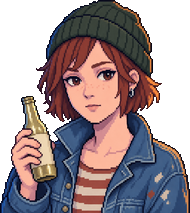
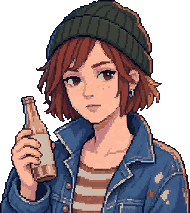
Integration (resumed): Jersey font ladder measured with FontProbe, playthrough tool (PLAY ok 15 steps), shelf as auto-scrolling list, manage rows fitted, verify leftovers; 66 tests green

diff --git a/docs/04-component-catalog.md b/docs/04-component-catalog.md
@@ -10,7 +10,9 @@ inside a scene, stop: use a component, or add one here first.
    and `components/Theme.tres`. A component may not write a raw hex; a scene may not write a stylebox — nor a
    `Color(...)` on a `ColorRect`. A screen that needs a veil or a hairline assigns the token in `_ready()`
    (`($Dim as ColorRect).color = Palette.DIM`); `test_scenes.gd::test_scenes_write_no_colours` greps every
-   screen `.tscn` and fails if the word `Color(` reappears.
+   screen `.tscn` and fails if the word `Color(` reappears. The pool obeys it too: no `.tscn` in
+   `components/` writes a colour either, and the tints, the rain, the modal dimmer and the meter's empty
+   cell are `Palette` tokens the script assigns in `_ready()`.
 2. **Tree-optional.** Components find their own nodes with `get_node_or_null("%Name")` (never `@onready`) and guard
    every tween with `is_inside_tree()`, so `render()` works on an instance that was never added to a tree — which is
    how `tests/unit/test_scenes.gd` exercises them headless.
@@ -21,19 +23,21 @@ inside a scene, stop: use a component, or add one here first.
 
 | Component | Scene / script (`class_name`) | Contract | Used by |
 |---|---|---|---|
-| **Palette** | `theme.gd` (`Palette`) | Tokens only, no nodes. Colours (`WOOD_DEEP…NEON_CYAN`, `INK`, `EDGE`, `SCRIM` (title veil) / `DIM` (behind a card) / `RULE` (1-px separator), `TEXT`, `GOOD/WARN/BAD`, `SPEAKER`, `TIER`), sizes (`FONT_SMALL 12 / FONT_BODY 16 / FONT_LEAD 24 / FONT_TITLE 48`), layout (`BASE 480×270`, `COUNTER_H/COUNTER_TOP`, `DIALOGUE_RECT`, `SERVE_RECT`), `static var reduce_motion`. Methods: `theme()` (loads Theme.tres and forces the pixel font to antialias-off / hinting-none / subpixel-off), `prepare()`, `speaker_colour(id)`, `tier_colour(tier)`, `box(...)->StyleBoxFlat`, `money(float)->"1,80 €"`, `snap(Vector2)`. | everything |
-| **Theme** | `Theme.tres` | The one Theme: VT323 at 16 + styleboxes for `Button` (normal/hover/pressed/disabled/focus) and `PanelContainer`, plus type variations `DialoguePanel`, `BubblePanel`, `SlotPanel`, `SlotPanelPicked`, `ChoiceButton`, `TitleButton`, `HudPlate`, `FlatPanel`, `SpeakerLabel`, `SmallLabel`, `LeadLabel`, `TitleLabel`. Every box has `anti_aliasing = false`. | every scene root sets `theme` |
+| **Palette** | `theme.gd` (`Palette`) | Tokens only, no nodes. Colours (`WOOD_DEEP…NEON_CYAN`, `INK`, `EDGE`, `SCRIM` (title veil) / `DIM` (behind a card) / `RULE` (1-px separator) / `MODAL_DIM` / `METER_EMPTY`, the set’s `TINT_DUSK/DEEP/DAWN` + `NEON_GLOW` + `RAIN` + `RAIN_RECT`, `TEXT`, `GOOD/WARN/BAD`, `SPEAKER`, `TIER`), sizes (`FONT_TINY/SMALL/BODY 16 · FONT_LEAD 20 · FONT_TITLE 50` — Jersey’s measured-clean sizes, docs/01 "Pixel discipline"), layout (`BASE 480×270`, `COUNTER_H/COUNTER_TOP`, `DIALOGUE_RECT` + `DIALOGUE_W_SERVING`, `SERVE_RECT`, `PORTRAIT_CENTRE_X` / `PORTRAIT_CENTRE_X_SERVING` / `PORTRAIT_OVERLAP` / `PORTRAIT_TOP_MIN`), `static var reduce_motion`. Methods: `theme()` (loads Theme.tres and forces EVERY face in it to antialias-off / hinting-none / subpixel-off), `prepare()`, `speaker_colour(id)`, `tier_colour(tier)`, `box(...)->StyleBoxFlat`, `money(float)->"1,80 €"`, `snap(Vector2)`. | everything |
+| **Strings** | `strings.gd` (`Strings`) | THE string table — every user-facing word, plus `hud_line(day, queue)` and `summary_sub(...)` so the separators cannot drift between screens. English base, German for the Kiez’s own nouns (Späti · Pfand · Kiez-Trust) and the engine’s weekdays. `tests/unit/test_strings.gd` fails any `.gd` in `scenes/` or `components/` that sets a label to a literal (`.tscn` placeholders are exempt — they are what the editor shows, and `render()` overwrites them). | every screen + component |
+| **Theme** | `Theme.tres` | The one Theme: **Jersey 10 at 16** as the default font (Jersey 25 at 50 for `TitleLabel`), plus styleboxes for `Button` (normal/hover/pressed/disabled/focus), `PanelContainer` and `VScrollBar`, and the type variations `DialoguePanel`, `BubblePanel`, `SlotPanel`, `SlotPanelPicked`, `ChoiceButton`, `StepButton` (a zero-padding −/+ so a table row stays exactly one row tall), `TitleButton`, `HudPlate`, `FlatPanel`, `SpeakerLabel`, `SmallLabel`, `TinyLabel`, `LeadLabel`, `TitleLabel`, `TitleSubLabel`. Every box has `anti_aliasing = false`. | every scene root sets `theme` |
+| **Fx** | `Fx.tscn` / `fx.gd` (`Fx`) | The feedback layer: `Session.event` (every new log entry, docs/05 §7) → a code-drawn pop on the pixel grid — a coin for `serve`/`tip`, a clink for `pfand`, motes for `arrive`/`upgrade`, a grey puff for `balk`/`ethics`/`raid`. `on_event(entry)`, `play(kind, at)`. No texture, no state: an FX that fails to play may never change a night. Silent under `reduce_motion`. | Night |
 | **Assets** | `assets.gd` (`Assets`) | `texture(id)->Texture2D` (real PNG or generated placeholder), `portrait(portrait_id, expression)` — it resolves the EXPRESSION first (an id with neither a PNG nor a `SIZES` entry falls back to `_neutral`, docs/05 §6) so a missing expression keeps the bust's 190×230 footprint instead of collapsing to `FALLBACK_SIZE` —, `is_real(id)`, `size_of(id)` (mirrors `docs/asset-spec.json`; `test_scenes.gd::test_asset_sizes_match_the_spec` reads the spec and fails on any drift), `clear_cache()`. Placeholders: bust silhouette for `char/*`, room for `scene/*`, bottle/box for props, disc for `ui/*` — each in a hashed colour with the id stamped in a built-in 3×5 font. | every component that shows art |
 | **MockView** | `mock_view.gd` (`MockView`) | `PRESETS`, `presets()`, `view(preset) -> Dictionary` shaped **exactly** like `Rules.view(state)` (docs/05 §5) for all nine capture presets, with the **same strings** the engine formats (`"Kiez-Trust 62"`, a German weekday from `Rules.WEEKDAY_NAMES`) — `test_scenes.gd::test_mock_view_speaks_the_engines_language` compares the values against `Rules.view()`, so a capture can never show text the engine cannot produce. Mock data only — no rules. | `Screen.apply_capture_preset`, tests |
 | **Screen** | `screen.gd` (`Screen`, extends Control) | Base for composed screens. `@export default_preset`, `view()` (Session's when `/root/Session` exists, else the mock — a capture preset always wins), `render(v)` (override), `refresh()`, `dispatch(action)` (Session, else prints), `apply_capture_preset(name)`, signal `request_screen(name)`. | Title, Night, Manage, Summary |
 | **PixelPanel** | `PixelPanel.tscn` / `pixel_panel.gd` (`PixelPanel`) | The generic dark translucent box. `@export title`, `@export variation` (`&"DialoguePanel"`, `&"SlotPanel"`, …), `content()`, `add_content(n)`, `clear_content()`. | ad-hoc panels |
 | **PixelButton** | `PixelButton.tscn` / `pixel_button.gd` (`PixelButton`) | `extends Button`. `@export icon_id` (through Assets), `@export action: Dictionary` (an engine action), signal `activated(action)` on top of `pressed`. Focus ring from the Theme, so the keyboard works. | every clickable |
 | **Meter** | `Meter.tscn` / `meter.gd` (`Meter`) | Icon + label + segmented bar; colourblind-safe (icon + number carry the meaning). `@export icon_id/label_text/value 0..1/fill/segments`, `set_reading(value, text)`. | Hud |
-| **ItemSlot** | `ItemSlot.tscn` / `item_slot.gd` (`ItemSlot`) | One SKU: icon, name, price (coloured by `tier`), stock, corner badge (till count, or `18` when restricted). `@export sku: Dictionary` (a `view.shelf` entry), `@export count`, signal `picked(sku_id)`; click or `ui_accept`, out-of-stock slots dim and do not emit. 44×44. | Shelf |
-| **Shelf** | `Shelf.tscn` / `shelf.gd` (`Shelf`) | 5-column grid of ItemSlots. `set_items(items, counts := {})`, `set_counts(counts)`, `slot_for(sku_id)`, signal `picked(sku_id)`. Re-uses slots between renders. | ServePanel |
-| **Till** | `Till.tscn` / `till.gd` (`Till`) | The ring-up tray. `set_lines/add_sku/set_pfand/set_pfand_rate/clear/counts/total/give_list`; signals `ring_up(give, pfand_bottles)`, `pfand_toggled`, `waved_off`, `line_removed`. Shows at most `MAX_ROWS` lines + a "+N more" row + the Pfand line, which prices the deposit from `pfand_rate` (fed from `view.pfand_rate`, never a literal — the tray must quote what the reducer pays); "Ring up" disables when the tray is empty. | ServePanel |
+| **ItemSlot** | `ItemSlot.tscn` / `item_slot.gd` (`ItemSlot`) | One SKU as a full-width row: an 18×26 icon well that CLIPS (so a 36-px bottle cannot stretch the row), name, price (coloured by `tier`), stock, badge (till count, or `18` when restricted — the cell always holds its width so the columns line up down the list). `@export sku: Dictionary` (a `view.shelf` entry), `@export count`, signal `picked(sku_id)`; click or `ui_accept`, out-of-stock slots dim and do not emit. 28 px tall. | Shelf |
+| **Shelf** | `Shelf.tscn` / `shelf.gd` (`Shelf`) | The stock LIST: one ItemSlot per SKU, registry order, inside the ServePanel’s scroll window. (It was a 5-wide grid of 42-px tiles; at the pool’s one text size a tile that narrow could print a name **or** a price, never both — and the shelf is 17 SKUs, 23 once the modules land.) `set_items(items, counts := {})`, `set_counts(counts)`, `slot_for(sku_id)`, signal `picked(sku_id)`. Re-uses slots between renders. | ServePanel |
+| **Till** | `Till.tscn` / `till.gd` (`Till`) | The ring-up tray. `set_lines/add_sku/set_pfand/set_pfand_rate/clear/counts/total/give_list`; signals `ring_up(give, pfand_bottles)`, `pfand_toggled`, `waved_off`, `line_removed`. Shows at most `MAX_ROWS` lines + a "+N more" row + the Pfand line, which prices the deposit from `pfand_rate` (fed from `view.pfand_rate`; it defaults to **0**, because a component may not reach into the engine for a fallback and a tray quoting 0,00 is a wiring bug you can see); "Ring up" disables when the tray is empty. | ServePanel |
 | **ServePanel** | `ServePanel.tscn` / `serve_panel.gd` (`ServePanel`) | Coffee Talk’s brew panel: slides in over the right half (`SHOWN_X 228 → HIDDEN_X 482`), header names who is waiting, the Shelf in a scroll window above, the Till below. `render(view)` also **scrolls the shelf to the SKU the customer asked for**, so what you need is never three rows down. `open(instant)`, `close(instant)`, `till()`, `preload_picks(sku_ids, pfand_bottles)` (capture presets); signals `serve(action)` — a ready-made `serve_active` — `waved_off`, `closed`. | Night |
-| **DialogueBox** | `DialogueBox.tscn` / `dialogue_box.gd` (`DialogueBox`) | The centrepiece: coloured speaker name, white typewriter body (`chars_per_second`), a blinking code-drawn ▾ (a `Polygon2D`, because VT323 has no ▾ glyph), choices stacked just above the box. `show_dialogue(view.dialogue, instant)` (idempotent: the same speaker + lines + choices re-sent is ignored, so the per-frame render never restarts the typewriter), `show_final(d)` (capture: last line + choices), `advance()`, `clear()`, `is_typing()`; signals `choice(index)`, `advanced`, `finished`. Click or Space advances. | Night |
+| **DialogueBox** | `DialogueBox.tscn` / `dialogue_box.gd` (`DialogueBox`) | The centrepiece: coloured speaker name, white typewriter body (`chars_per_second`), a blinking code-drawn ▾ (a `Polygon2D`: no pixel face in the pack has a ▾ glyph), choices stacked just above the box. `show_dialogue(view.dialogue, instant)` (idempotent: the same speaker + lines + choices re-sent is ignored, so the per-frame render never restarts the typewriter), `show_final(d)` (capture: last line + choices), `advance()`, `clear()`, `is_typing()`; signals `choice(index)`, `advanced`, `finished`. Click or Space advances. | Night |
 | **Portrait** | `Portrait.tscn` / `portrait.gd` (`Portrait`) | The bust, placed at its **native** size on integer pixels (never scaled) and anchored by its **bottom-centre**: `place_behind(counter_edge_y, centre_x)` seats it against the counter’s real occlusion line with `PORTRAIT_OVERLAP` px behind the wood. Bottom-centre, not a spec rectangle — shipped art is narrower than its placeholder box (`char/you_neutral` is 155 against a 190 spec), so a left-anchored bust drifts off centre. `overlap_behind()`, `@export portrait_id/expression/breathe`, `set_from_active(view.active)`, `slide_in()`, `slide_out()`; idle breathing is a stepped 1-px bob and stops under `Palette.reduce_motion`. | Night |
 | **WantBubble** | `WantBubble.tscn` / `want_bubble.gd` (`WantBubble`) | Icon + name + price + optional line, with a code-drawn tail. `set_want(view.active.want, said := "")`, `@export line`. | Night |
 | **SceneLayers** | `SceneLayers.tscn` / `scene_layers.gd` (`SceneLayers`) | The set, in draw order: `Backdrop → NeonGlow → Rain → Characters → Counter → Tint` — the rain is **on the glass**, inside `Palette.RAIN_RECT` (the door/window opening) and behind everyone, not falling through the shop. `@export backdrop_id/counter_id/night_progress/raining/rain_drops/neon`, `set_time(0..1)` (dusk → deep night → cold pre-dawn), `counter_top()`, **`mount(node)`** — puts a bust in the character slot *behind the counter*; it uses `reparent()` so the node keeps its `owner` (and therefore its `%unique name`). The counter art is always flush with the bottom of the frame whatever its height. Rain is seeded (1337) so a capture is reproducible; rain and neon flicker stop under `reduce_motion`. | Night, Manage, Summary |

diff --git a/docs/03-build-log.md b/docs/03-build-log.md
@@ -722,3 +722,144 @@ subject for exactly this reason.
 - **Incident 20:52–20:58:** adding `--despeckle` to `img.gd` introduced a GDScript parse error (`var p := o + d` with an untyped loop var) that broke EVERY snap for ~4 min — the art lanes logged 11 `img.gd failed` results (raws are kept; re-snap with `art.mjs --reuse-raw`). Fixed (typed loop), verified, committed. `judge.mjs` now refuses a missing candidate instead of returning a zero-filled verdict.
 
 - Ladder completed: +quantise 64 → **81** (pixel 76); +quantise 96 + 2× despeckle → **82** (pixel 77, Lena judged as NPC: fidelity 85). Astra: "further progress needs targeted cluster redraws". **Decision: the standard chain is snap-only; `--quantize` / `--despeckle` are opt-in polish** (≈ +1 each, some banding risk). The lever for ≥ 85 is the generation prompt (TRUE-PIXEL-ART clauses) + astra as generator + the judge loop.
+
+## 2026-09-12 — INTEGRATION lane (resumed): the Jersey font, a real playthrough, the verify leftovers
+
+`node tools/godot/test.mjs` -> **66 run, 0 failed**. `node tools/godot/play.mjs` -> **PLAY ok steps=15**,
+zero engine error lines, night 1 finished and night 2 open.
+
+### 1. The font: VT323 is gone, Jersey is in — and the sizes were MEASURED, not assumed
+
+VT323 is an outline face. At 16 base px its one-unit middle stems fall between pixel centres and simply
+vanish: "Mate"->"Nate", "MODULES"->"NODULES", "Mittwoch"->"Nittwoch", "1,80"->"1,B0", "x18"->"x1B"
+(`shots/probe3-night.png`, `shots/probe3-manage.png`). Hinting NORMAL, the previous lane's patch, kept the
+stems but at the cost of a smeared, un-pixel look — and 16 px of VT323 is about twice Coffee Talk's body.
+
+Jersey (OFL, `godot/assets/fonts/OFL-Jersey.txt`) replaced it. The brief said "each face only at its native
+size (10/20/25)"; **that turned out to be wrong on this family**, and the way we found out is a new tool:
+
+- `godot/tools/FontProbe.tscn` + `font_probe.gd` prints one sample in every face at every candidate size.
+  Captured with `shot.mjs` and read at x2/x3: `shots/fontprobe.png`, `fontprobe2.png`, `fontprobe3.png`.
+- **Jersey 10 @10 is BROKEN** — "KIEZ" renders "HIEZ" (the K loses its diagonal). @14 is broken too
+  ("Wasser"->"Wassor"). It is clean at **12 / 16 / 20 / 25 / 50**.
+- **@12 draws every letter but not every NUMBER**: "22:41"->"ZZ41", "84,50"->"84.50" (2 reads as Z, the
+  comma flattens to a dot). Unusable for a clock and for money, which is most of this game's text.
+- **Jersey 20 @20 loses the middle bar of an `8`** ("1,80"->"1,00"). It is clean at 25/50, so it earns no
+  slot in the ladder; the file and its licence stay.
+- **Jersey 25 @50** is a caps-only display face and is perfect — the wordmark, nothing else.
+
+So the ladder is **one text size**, like Coffee Talk: `FONT_TINY = FONT_SMALL = FONT_BODY = 16`,
+`FONT_LEAD = 20`, `FONT_TITLE = 50`. Jersey 10 @16 has an 8-px cap where VT323 @16 had 11, so this is
+*smaller* on screen than what the review complained about, not bigger. Antialiasing NONE, hinting NONE,
+subpixel DISABLED — set in the three `.import` files **and** forced in `Palette.theme()`, which now walks
+`get_font_type_list()` instead of only `default_font`, so neither half can rot alone.
+
+Everything that assumed 16-px VT323 was re-laid out and re-read at 1080p:
+`DIALOGUE_RECT` 40,196,400x64 (a 12-px speaker line + two 16-px body lines + padding; docs/02 asks for
+y 196-262) with the choices stacked 60 px above it; the HUD's `Meta` line dropped the weekday (at one text
+size the corner cannot hold clock + cash + Pfand + weekday AND leave the other corner to the meters — the
+weekday is on the Manage title and the Summary sub-line); a new `StepButton` theme variation with zero
+vertical padding so a Manage row is one row tall; the Modal frame widened to 12..468 so a module
+description stops clipping mid-word; `ManageBoard` now **measures** a built row and sizes its scroll window
+to `ROWS_VISIBLE` whole rows (`_fit_scroll_to_whole_rows`) instead of trusting a constant that went stale
+the moment the font changed — which is also the fix for "row 6 sliced at the boundary".
+
+**The Shelf became a list.** At one text size a 42-px grid tile can print a name OR a price, never both, and
+the shelf is 17 SKUs (23 with the modules). It is now one full-width `ItemSlot` row per SKU (icon well 18x26,
+clipped so a 36-px bottle cannot stretch the row; name / price / stock / badge as columns) inside a scroll
+window in the ServePanel — and `ServePanel.render()` **scrolls to the SKU the customer asked for**, so what
+you need is never three rows down. The panel grew to x 228..476 to fit it.
+
+Read at 1080p, word by word: `shots/f6-title.png`, `f6-summary.png`, `f9-manage.png`, `f2-dialogue_choice.png`,
+`f4-pfand.png`, `play-06-first-customer.png`, `play-08-picked.png`, `play-11-beat-choice.png`. No dropped
+stems, no 8->B, no 2->Z; the P&L reads 142,80 + 8,40 - 61,20 - 35,00 - 4,80 = +50,20.
+
+### 2. The playthrough tool — the proof the loop is playable
+
+`godot/tools/playthrough.gd` + `Playthrough.tscn` + `tools/godot/play.mjs` (the spawn/lock/watchdog pattern
+copied from `shot.mjs`, WINDOWED, `--timeout 240`). It boots the real `scenes/Main.tscn` into the same
+480x270 SubViewport `shot.gd` uses and plays it through the screens' **own** handlers — `MockView` is never
+touched, every number logged comes from `Session.view()`:
+
+New game -> Manage -> a real `restock` off the board (asserted against the engine's stock) -> Open up ->
+wait for the first customer -> Serve -> pick the wanted SKU through `ItemSlot._gui_input` -> Ring up
+(asserted against `tally.sales`) -> answer the story beat on the real DialogueBox, having first checked that
+`legal_actions` offers no `serve_active` while it is pending (docs/05 §4) -> Wave off -> let the night run
+itself to 06:00 (`night.gd` dispatches `close_night`; the tool only answers beats) -> Summary -> Next day
+(asserted: the day advanced) -> Open up -> night 2.
+
+15 steps, a 1920x1080 PNG after each (`shots/play-NN-<step>.png`) and a row per step in
+`shots/play-log.json` ({step, name, screen, phase, day, clock, cash, active, pending}).
+
+Two things it taught us immediately:
+- **`SceneTreeTimer` runs on SCALED time.** The first run's watchdog was a `create_timer(225)` and fired
+  after ~56 real seconds the moment `Engine.time_scale` went to 4. The budget is a wall clock now
+  (`Time.get_ticks_msec()`), checked by every wait in the tool.
+- **A capture must wait for the screen to stop moving.** With a 6-frame settle, the Summary shot caught
+  the tally mid-count and printed "Profit -36,73" and "Rent 47,80" for a night whose real numbers are
+  -47,14 and 48,00. A half-animated number in a proof shot is indistinguishable from an arithmetic bug,
+  so `_shot()` settles 28 frames; the summary now reconciles on the face of it
+  (1,30 + 0,06 - 0,50 - 48,00 = -47,14, cash 420,91 - 48,00 = 372,91).
+- Speeding the night up is `Engine.time_scale` and **nothing in the game**: Session still ticks itself,
+  arrivals still ride their curve, patience still runs, `night.gd` still closes the books.
+
+No flow bug was left standing: the previous lane's `close_night` / screen-handover wiring held up under a
+real run, and the one thing the tool could not do at first — reach a Manage restock button — was a real
+finding (the board's runtime rows did not fill the board's width, so every column sat left-packed and the
+module description clipped). Fixed.
+
+### 3. The verify-round-3 leftovers
+
+- **Portrait vs. the ServePanel.** `Portrait.place_behind(counter_edge_y, centre_x)` now anchors the bust by
+  its **bottom-centre** (shipped art is narrower than its spec box — `you_neutral` is 155 against a 190 spec
+  — so a left-anchored bust drifts), and `night.gd` seats it at `PORTRAIT_CENTRE_X_SERVING` (118) while the
+  panel is open. Jürgen is fully visible in `shots/f4-pfand.png`; the want bubble stands down while the
+  panel names the order in its own header.
+- **Rain.** The `Rain` node moved *before* `Counter` in `SceneLayers.tscn` and the streaks are now drawn
+  inside `Palette.RAIN_RECT` (372,4 106x200 — the door/window opening) at alpha 0.55 instead of 26 cyan
+  hairlines at 0.10 sprayed over the whole frame. Visible in `f6-summary.png` and every night capture.
+- **`Assets._stamp_id`** keeps the leaf name and its HEAD: "COFFEE", not "FFEE"; "CIGA", not "TTES".
+- **Manage restock list** sized to whole rows (above).
+- **Speaker names** already came from the registry ("'Bottle' Jürgen"); verified live in `f4-pfand.png`.
+- **`project.godot`** gained `rendering/2d/snap/snap_2d_transforms_to_pixel=true`, which docs/01 always
+  claimed was on.
+- **Raw colours are gone from the pool as well as the screens.** `SceneLayers` (DUSK/DEEP/DAWN -> `TINT_*`,
+  the neon bloom, the rain), `Modal` (the dimmer and its hairline), `Meter` (the unlit cell), `ServePanel`
+  (the divider), `ManageBoard` (the rule), `Transition`, `WantBubble` — every one is a `Palette` token
+  assigned in `_ready()`, and not one `.tscn` in `components/` contains the word `Color(` any more.
+- **Busts and the counter** are both bottom-anchored, so the shipped art being smaller than its spec box
+  moves nothing.
+
+### 4. Strings, and what the tests now hold
+
+`tests/unit/test_strings.gd` (new, 4 tests) is what `strings.gd` always claimed existed: no `.gd` under
+`scenes/` or `components/` may set a label to a literal, the stray German chrome words may not come back,
+the format strings must keep their `%s`/`%d` slots, and the composed lines (`hud_line`, `summary_sub`) must
+read as sentences. `.tscn` placeholders stay exempt — docs/01 wants the editor tree to show reality, and
+`render()` overwrites them. It found three real leftovers: the Summary screen and `SummaryTally` were still
+German ("Umsatz/Gewinn/Kasse/Weiter"), and `ItemSlot`/`DialogueBox` were formatting `"x%d"` and `"%d. %s"`
+in place. All four now come from the table.
+
+`test_scenes.gd` gained `test_the_pool_list_is_complete`, which reads `components/` off disk and fails if a
+`.tscn` is missing from `COMPONENTS` — the hand-written list the last two verify rounds flagged. `Fx.tscn` was
+the first thing it caught.
+
+### Not done / for other lanes
+
+- **`MockView` still invents vocabulary the engine cannot produce** — archetypes "Pfandsammler", "Clubber",
+  "Studentin" and German SKU names — so the nine capture presets show words a live run never will (the live
+  ones read "Broke student", "Kiez regular", "Sterni (beer)"). `test_mock_view_speaks_the_engines_language`
+  only checks the two HUD labels, the weekday, the Pfand rate and the tiers. The playthrough captures are
+  now the honest reference; someone should either fix the mock against `Content.ARCHETYPES` or retire the
+  mock presets in favour of `play-*.png`.
+- **13 SKUs had no `Assets.SIZES` entry** until this pass (energy, schrippe, tobacco, papers, tp, condoms,
+  batteries, painkillers, currywurst, icecream, milk, eggs, vape); the art lane added the spec rows during
+  this lane and the mirror now matches. None of them has a PNG yet, so the shelf shows stamped placeholders
+  below the fold.
+- `docs/05 §5`'s read-model block still lists the pre-`pfand_rate` key set (17 keys; the code and the tests
+  carry 18, plus `tier` on each `restock_options` entry).
+- `content/skus.gd` still carries a per-SKU `deposit` that nothing reads.
+- The `Serve` toggle sits under the serve panel when the panel is open — harmless (it is behind it), but it
+  should probably become a close affordance.
+- A neglected night piles up a long queue ("18 waiting" in `play-11-beat-choice.png`) and Kiez-Trust drops
+  fast; that is the balance lane's read, not a bug, but the number is worth a look.
